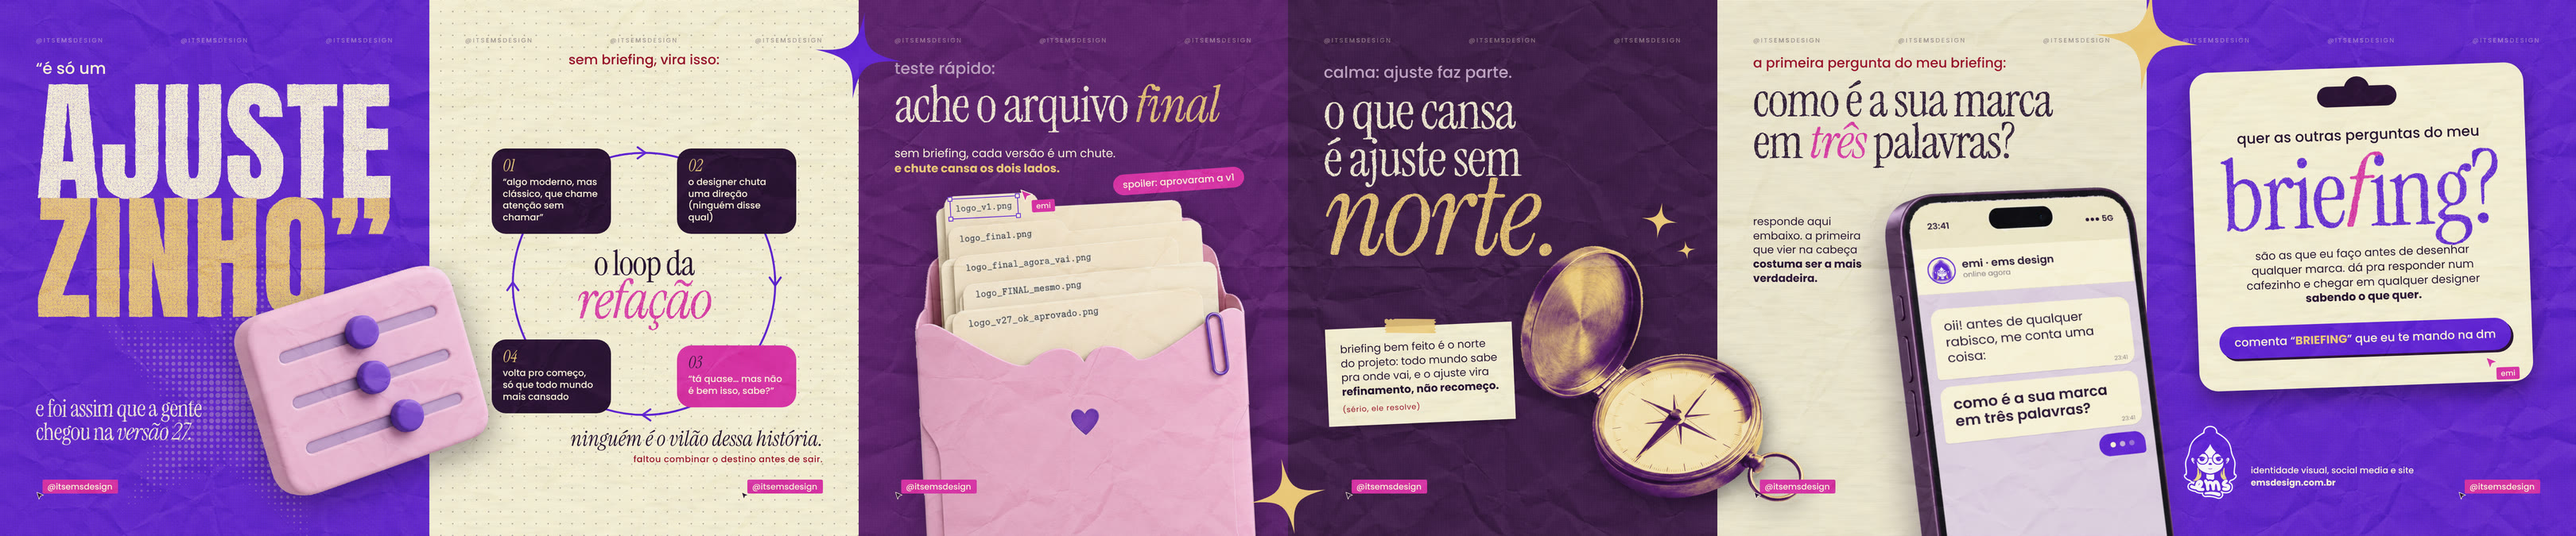
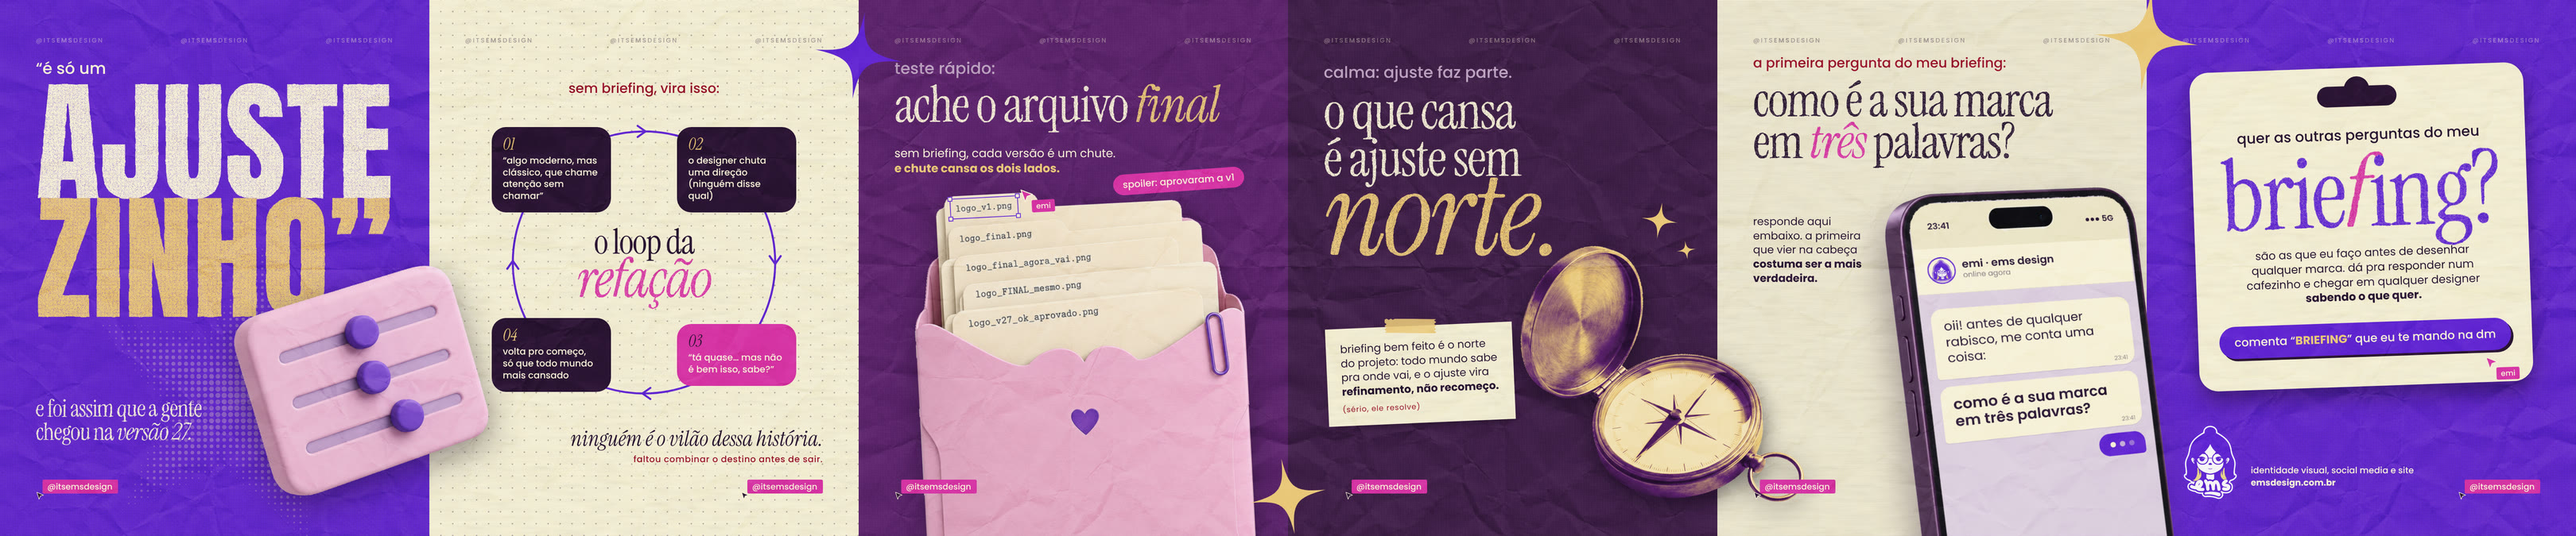
EMS ajustezinho v9: lâmina 2 com o texto de cima mais baixo e o loop mais alto
Claude-Session: https://claude.ai/code/session_01CmCiK8ktcTUDK4gcGU9jQJ

Changed region(s): [[0.187, 0.2178, 0.3117, 0.7778], [0.2182, 0.1556, 0.2806, 0.1867], [0.2182, 0.0933, 0.2806, 0.1244]]

diff --git a/Emi/ems-so-um-ajustezinho/projeto/carrossel-v9.html b/Emi/ems-so-um-ajustezinho/projeto/carrossel-v9.html
@@ -97,9 +97,9 @@ body{background:#140a19;width:max-content}
 #l1 .estrela{left:0;top:0;width:1080px;height:1350px;z-index:1;pointer-events:none}
 
 /* ---------- 02 loop: o desenho é o próprio loop ---------- */
-#l2 .lead{left:0;right:0;top:132px;text-align:center;font-size:34px;color:var(--wine)}
+#l2 .lead{left:0;right:0;top:204px;text-align:center;font-size:34px;color:var(--wine)}
 #l2 .anel{left:0;top:0;width:1080px;height:1350px;z-index:2}
-#l2 .centro{left:0;right:0;top:626px;text-align:center;color:var(--tinta);z-index:3}
+#l2 .centro{left:0;right:0;top:572px;text-align:center;color:var(--tinta);z-index:3}
 #l2 .centro .a{font-size:88px}
 #l2 .centro .b{font-size:136px;color:var(--pink);margin-top:-4px}
 .etapa{width:300px;border-radius:36px;padding:22px 28px 26px;font:500 23px/1.3 var(--sans);background:var(--tinta);color:var(--ivory);z-index:4}
@@ -299,7 +299,7 @@ document.querySelectorAll('[data-brilho]').forEach(svg => {
 });
 
 // lâmina 2: o anel do loop, com setas no sentido horário, e as etapas sentadas em cima dele
-const CX = 540, CY = 715, R = 330;
+const CX = 540, CY = 661, R = 330;
 const anel = document.getElementById('anel');
 anel.setAttribute('viewBox', '0 0 1080 1350');
 let s = `<circle cx="${CX}" cy="${CY}" r="${R}" fill="none" stroke="#6225d8" stroke-width="5"/>`;

diff --git a/Emi/ems-so-um-ajustezinho/README.md b/Emi/ems-so-um-ajustezinho/README.md
@@ -22,6 +22,7 @@ Referência de formato: post da @agrizzart sobre manter o perfil ativo com a age
   - lâmina 4, título: "o que cansa é / ajuste sem" virou "o que cansa / é ajuste sem";
   - lâmina 4, bilhete: "vai, e o / ajuste" desceu, e a caixa passou de 440 para 470px para fechar em 4 linhas ("briefing bem feito é o norte / do projeto: todo mundo sabe / pra onde vai, e o ajuste vira / **refinamento, não recomeço.**");
   - lâmina 2, etapa 04: "só" desceu ("volta pro começo, / só que todo mundo / mais cansado").
+  - lâmina 2 (pedido da Emi): "sem briefing, vira isso:" desceu (top 132 → 204px, estava colado na marca d'água) e o loop subiu 54px (centro do círculo em y 661), deixando o mesmo respiro (~75px) entre o texto de cima e o loop e entre o loop e "ninguém é o vilão dessa história.".
 
   As lâminas 1, 3, 5 e 6 são idênticas às da v8. No Drive, slide-02, slide-04 e a visão geral foram trocados (os da v8 foram para a lixeira).
 - **v8** (`entrega/v8/`, `projeto/carrossel-v8.html`): Igual à v7, mas com **objetos 3D gerados**, recortados e montados sobre os fundos de textura da EMS:
